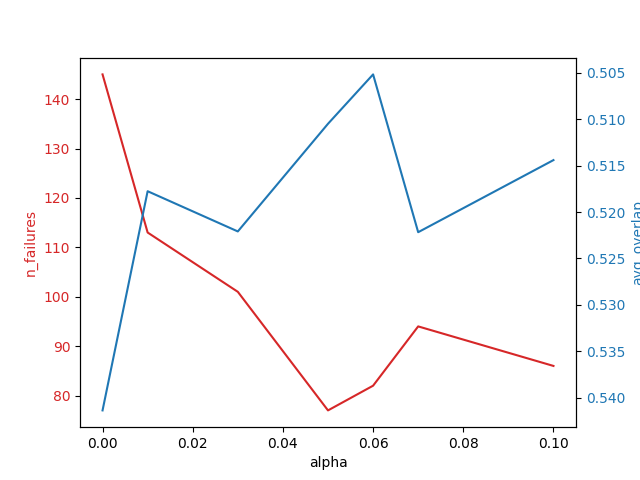
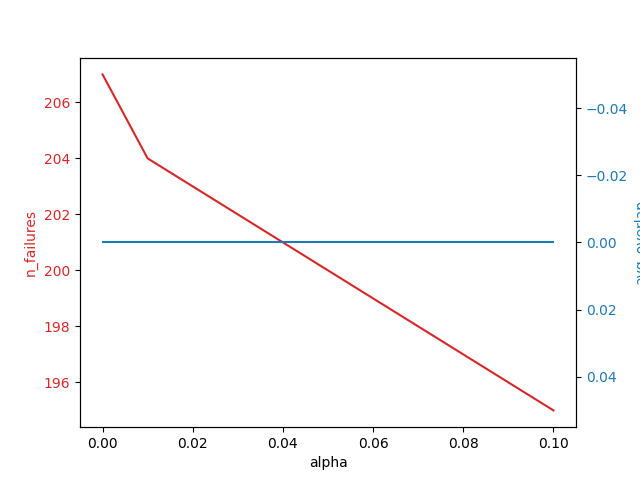
Neke grafe mam

diff --git a/proj4/part_tracker.py b/proj4/part_tracker.py
@@ -49,7 +49,8 @@ class PartTracker(Tracker):
         # self.bag = [(self.position[0] + x, self.position[1] + y, 1) for x,y in noise]
         samples = sample_gauss(self.position, np.eye(2) * self.parameters.sigma, self.parameters.n)
         self.bag = [{"state":np.array([x,y,0,0]), "weight": 1} for x,y in samples]
-        PartTracker.visualize(self.bag, image)
+        if self.parameters.verbose:
+            PartTracker.visualize(self.bag, image)
 
     def track(self, image):
 
@@ -70,7 +71,8 @@ class PartTracker(Tracker):
         p = np.array(p)/sum(p)
         self.bag = choice(self.bag, self.parameters.n, p=p, replace=True)
         
-        PartTracker.visualize(self.bag, image)
+        if self.parameters.verbose:
+            PartTracker.visualize(self.bag, image)
         
         # dynamic model
         
@@ -89,8 +91,8 @@ class PartTracker(Tracker):
                 and pair["state"][1] >= top and pair["state"][1] <= bottom:
                     pair["weight"] = 0
             
-            
-        PartTracker.visualize(self.bag, image)
+        if self.parameters.verbose:
+            PartTracker.visualize(self.bag, image)
             
         def hell_dist(p,q):
             P = p.flatten()
@@ -103,6 +105,7 @@ class PartTracker(Tracker):
         for pair in self.bag:
             height, width = self.template.shape[:2]
             cut,_ = get_patch(image, pair["state"][:2], (height,width))
+            cut = cut[:width,:height]
             hist = extract_histogram(cut,
                                     nbins=self.parameters.nbins,
                                     weights=self.epanechnik_kernel[:height,:width],
@@ -118,16 +121,18 @@ class PartTracker(Tracker):
         # probs = np.array(probs) / sum(probs)
         # for pair, prob in zip(self.bag, probs):
         #     pair["weight"] = prob
-        
-        self.position = np.sum([ pair["state"][:2] * pair["weight"] for pair in self.bag ],axis=0)
-        print(self.position)
-        PartTracker.visualize1(self.position, image)
+        suma = sum([pair["weight"] for pair in self.bag])
+        self.position = np.sum([ pair["state"][:2] * pair["weight"] / suma for pair in self.bag ],axis=0)
+        # print(self.position)
+        if self.parameters.verbose:
+            PartTracker.visualize1(self.position, image)
         max_loc = (float(self.position[0]) - left - float(self.size[0]) / 2, float(self.position[1]) - top - float(self.size[1])/2)
         ############################################3
         # update q
         height, width = self.template.shape[:2]
         center = (int(self.position[0]),int(self.position[1]))
         cut,_ = get_patch(image, center, (height,width))
+        cut = cut[:width,:height]
         hist = extract_histogram(cut,
                                 nbins=self.parameters.nbins,
                                 weights=self.epanechnik_kernel[:height,:width],
@@ -137,25 +142,27 @@ class PartTracker(Tracker):
         
         #############################################33
 
-        assert (self.position [0] == left + max_loc[0] + float(self.size[0]) / 2 and
-                self.position[1] == top + max_loc[1] + float(self.size[1]) / 2)
+        # assert (self.position [0] == left + max_loc[0] + float(self.size[0]) / 2 and
+        #         self.position[1] == top + max_loc[1] + float(self.size[1]) / 2)
 
         return [left + max_loc[0], top + max_loc[1], self.size[0], self.size[1]]
 
 class PartParams():
     def __init__(self):
-        self.enlarge_factor = 2
+        # self.enlarge_factor = 2
+        self.enlarge_factor = 2.5
         
         self.nbins = 16
         self.hist_mode = "BGR"
-        self.alpha = 0.1
+        self.alpha = 0.1 # spreminjanje tergeta
         
-        self.q = 1
-        self.r = 1
+        self.q = 1 # dependent on target size # kolko naprej skočijo pikice v dinamičnem modelu
+        self.r = 1 # koliko je šuma v podatkih
         
-        self.n = 100
-        self.sigma = 1
-        self.sigma2 = 1
+        # self.n = 100 # število partiklov
+        self.n = 150 # število partiklov
+        self.sigma = 1 # koliko se razmečejo okoli ground truth (samo pri init)
+        self.sigma2 = 1 # kolko se kaznuje različnost od targeta (v obliki zmanjšanja uteži)
         
         self.A = np.array([[1,0,1,0],
                   [0,1,0,1],
@@ -165,6 +172,8 @@ class PartParams():
                                           [0,2,0,3],
                                           [3,0,6,0],
                                           [0,3,0,6]])
+        
+        self.verbose = False
         
         
         

diff --git a/proj4/testing.py b/proj4/testing.py
@@ -1,0 +1,133 @@
+import pandas as pd
+import numpy as np
+import matplotlib.pyplot as plt
+
+from run_part_tracker_fun import run
+from part_tracker import PartParams
+
+def plot2(x, y1, y2, x_label, y1_label="n_failures", y2_label="avg_overlap"):
+    fig, ax1 = plt.subplots()
+
+    color = 'tab:red'
+    ax1.set_xlabel(x_label)
+    # ax1.set_xscale("log")
+    
+    ax1.set_ylabel(y1_label, color=color)
+    ax1.plot(x, y1, color=color)
+    ax1.tick_params(axis='y', labelcolor=color)
+
+    ax2 = ax1.twinx()  # instantiate a second Axes that shares the same x-axis
+    color = 'tab:blue'
+    ax2.set_ylabel(y2_label, color=color)
+    ax2.plot(x, y2, color=color)
+    ax2.tick_params(axis='y', labelcolor=color)
+    ax2.set_ylim(ax2.get_ylim()[::-1])
+
+    plt.savefig(x_label+".png")
+    # plt.show()
+
+def run_tests(params=PartParams(),verbose=False):
+    
+    # tests = ["bicycle",  "car",  "david",   "face",        "hand",       "juice", "sunshade",  "woman",
+    # "bolt",     "cup",  "diving",  "gymnastics", "iceskater",  "jump",   "singer",    "torus"]
+    
+    tests = ["car",   "face",     "juice",  "woman",
+       "cup",   "gymnastics",   "jump",      "torus"]
+    
+    n_fails = 0
+    overlaps = 0
+    for test in tests:
+        print(test,"...")
+        FPS, n_fail, overlap = run(sequence=test,parameters=PartParams(),plot=False,video_delay=15,verbose=verbose)
+        n_fails += n_fail
+        overlaps += overlaps
+    return n_fails, overlaps/len(tests)
+
+def d2obj(d):
+    parameters = PartParams()
+    if "enlarge_factor" in d.keys():
+        parameters.enlarge_factor = d["enlarge_factor"]
+    if "nbins" in d.keys():
+        parameters.nbins = d["nbins"]
+    if "hist_mode" in d.keys():
+        parameters.hist_mode = d["hist_mode"]
+    if "alpha" in d.keys():
+        parameters.alpha = d["alpha"]
+    if "q" in d.keys():
+        parameters.q = d["q"]
+    if "r" in d.keys():
+        parameters.r = d["r"]
+    if "n" in d.keys():
+        parameters.n = d["n"]
+    if "sigma" in d.keys():
+        parameters.sigma = d["sigma"]
+    if "sigma2" in d.keys():
+        parameters.sigma2 = d["sigma2"]
+    return parameters
+    
+
+
+# parameters = PartParams()
+# n_fails = []
+# avg_overlaps = []
+# ###############################vvv
+# x_label = "enlarge_factor"
+# values = [1,1.5,2,2.5]
+# for val in values:
+#     parameters.enlarge_factor = val
+#     ##############################^^^
+#     print(x_label,val)
+#     n_fail, avg_overlap = run_tests(parameters)
+#     n_fails.append(n_fail)
+#     avg_overlaps.append(avg_overlap)
+# plot2(values,n_fails, avg_overlaps, x_label)
+
+# parameters = PartParams()
+
+###############################vvv
+
+
+
+def neki(x_label, values):
+    n_fails = []
+    avg_overlaps = []
+    for val in values:
+        parameters = d2obj({x_label:val})
+        print(x_label,val)
+        n_fail, avg_overlap = run_tests(parameters)
+        n_fails.append(n_fail)
+        avg_overlaps.append(avg_overlap)
+    plot2(values,n_fails, avg_overlaps, x_label)
+    
+
+for x_label, values in [
+                        ("enlarge_factor",[2,2.5,3])
+                        # ("alpha",[0,0.01,0.1]),
+                        ("alpha",[0.1,0.15,0.2]),
+                        ("q",[0.1,0.25,0.5,1,2]),
+                        ("r",[0.1,0.5,1,2]),
+                        ("n",[50,100,150]),
+                        ("sigma2", [0.8,1,1.5])
+                        ]:
+    try:
+        neki(x_label,values)
+        plt.clf()
+    except Exception:
+        print("exception at x_label, you need to retry")
+
+
+        
+# self.enlarge_factor = 2
+        
+# self.nbins = 16
+# self.hist_mode = "BGR"
+# self.alpha = 0.1 # spreminjanje tergeta
+
+# self.q = 1 # dependent on target size # kolko naprej skočijo pikice v dinamičnem modelu
+# self.r = 1 # koliko je šuma v podatkih
+
+# self.n = 100 # število partiklov
+# self.sigma = 1 # koliko se razmečejo okoli ground truth (samo pri init)
+# self.sigma2 = 1 # kolko se kaznuje različnost od targeta (v obliki zmanjšanja uteži)
+
+        

diff --git a/proj4/run_part_tracker_fun.py b/proj4/run_part_tracker_fun.py
@@ -24,7 +24,9 @@ def run(sequence="bolt",parameters=PartParams(),plot=True,video_delay=15,verbose
     track_times = []
     # create parameters and tracker objects
     
+    parameters.verbose = verbose
     tracker = PartTracker(parameters)
+    
     
 
 
@@ -39,6 +41,7 @@ def run(sequence="bolt",parameters=PartParams(),plot=True,video_delay=15,verbose
         img = cv2.imread(sequence.frame(frame_idx))
         # initialize or track
         if frame_idx == init_frame:
+            # print("initialize")
             # initialize tracker (at the beginning of the sequence or after tracking failure)
             t_ = time.time()
             tracker.initialize(img, sequence.get_annotation(frame_idx, type='rectangle'))
@@ -81,6 +84,6 @@ def run(sequence="bolt",parameters=PartParams(),plot=True,video_delay=15,verbose
         print('Tracking speed: %.1f FPS' % (sequence.length() / time_all))
         print('Tracker failed %d times' % n_failures)
         print('Average overlap %d percent' % (overlap[0]/overlap[1]*100))
-    return((sequence.length() / time_all), n_failures, overlap[0]/overlap[1], init_times, track_times)
+    return((sequence.length() / time_all), n_failures, overlap[0]/overlap[1])
 
-run()
+# run()
